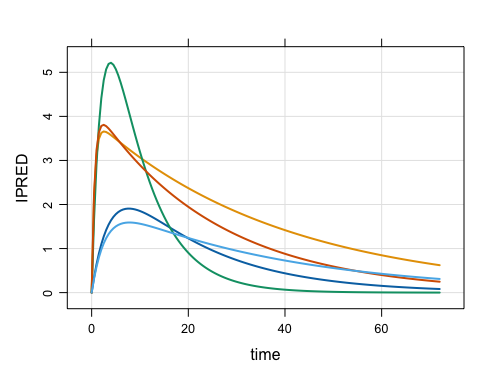
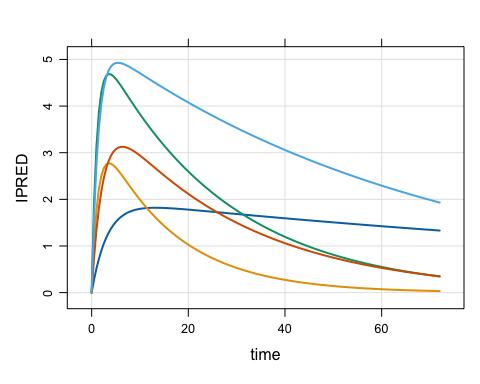
put current location in pkgdown file

diff --git a/README.md b/README.md
@@ -6,10 +6,10 @@
 <!-- badges: start -->
 
 [![R-universe
-version](https://kylebaron.r-universe.dev/mrgsim.ds/badges/version)](https://kylebaron.r-universe.dev/mrgsim.ds)
+version](https://p-emex.r-universe.dev/mrgsim.ds/badges/version)](https://p-emex.r-universe.dev/mrgsim.ds)
 [![r-universe
-status](https://kylebaron.r-universe.dev/mrgsim.ds/badges/checks)](https://kylebaron.r-universe.dev/mrgsim.ds)
-[![R-CMD-check](https://github.com/kylebaron/mrgsim.ds/actions/workflows/R-CMD-check.yaml/badge.svg)](https://github.com/kylebaron/mrgsim.ds/actions/workflows/R-CMD-check.yaml)
+status](https://p-emex.r-universe.dev/mrgsim.ds/badges/checks)](https://p-emex.r-universe.dev/mrgsim.ds)
+[![R-CMD-check](https://github.com/p-emex/mrgsim.ds/actions/workflows/R-CMD-check.yaml/badge.svg)](https://github.com/p-emex/mrgsim.ds/actions/workflows/R-CMD-check.yaml)
 <!-- badges: end -->
 
 `mrgsim.ds` provides an [Apache
@@ -60,15 +60,15 @@ out
 . Dim  : 1.4M x 4
 . Files: 1 [13.2 Mb]
 . Owner: yes (gc)
-.     ID time        CL    IPRED
-. 1:   1  0.0 0.5257195 0.000000
-. 2:   1  0.0 0.5257195 0.000000
-. 3:   1  0.5 0.5257195 2.029373
-. 4:   1  1.0 0.5257195 3.278854
-. 5:   1  1.5 0.5257195 4.037325
-. 6:   1  2.0 0.5257195 4.486813
-. 7:   1  2.5 0.5257195 4.742013
-. 8:   1  3.0 0.5257195 4.875192
+.     ID time       CL     IPRED
+. 1:   1  0.0 1.243114 0.0000000
+. 2:   1  0.0 1.243114 0.0000000
+. 3:   1  0.5 1.243114 0.1275166
+. 4:   1  1.0 1.243114 0.2449907
+. 5:   1  1.5 1.243114 0.3531121
+. 6:   1  2.0 1.243114 0.4525244
+. 7:   1  2.5 1.243114 0.5438276
+. 8:   1  3.0 1.243114 0.6275816
 ```
 
 ## Very lightweight simulation output object
@@ -79,7 +79,7 @@ disk.
 
 ``` r
 basename(out$files)
-. [1] "mrgsims-ds-84d728336864.parquet"
+. [1] "mrgsims-ds-1439e1fc2d10c.parquet"
 ```
 
 This means there is almost nothing inside the object itself
@@ -126,23 +126,23 @@ head(out)
 . # A tibble: 6 × 4
 .      ID  time    CL IPRED
 .   <dbl> <dbl> <dbl> <dbl>
-. 1     1   0   0.526  0   
-. 2     1   0   0.526  0   
-. 3     1   0.5 0.526  2.03
-. 4     1   1   0.526  3.28
-. 5     1   1.5 0.526  4.04
-. 6     1   2   0.526  4.49
+. 1     1   0    1.24 0    
+. 2     1   0    1.24 0    
+. 3     1   0.5  1.24 0.128
+. 4     1   1    1.24 0.245
+. 5     1   1.5  1.24 0.353
+. 6     1   2    1.24 0.453
 
 tail(out)
 . # A tibble: 6 × 4
 .      ID  time    CL IPRED
 .   <dbl> <dbl> <dbl> <dbl>
-. 1  3000  238. 0.596 0.236
-. 2  3000  238  0.596 0.232
-. 3  3000  238. 0.596 0.228
-. 4  3000  239  0.596 0.225
-. 5  3000  240. 0.596 0.221
-. 6  3000  240  0.596 0.217
+. 1  3000  238. 0.886 0.166
+. 2  3000  238  0.886 0.164
+. 3  3000  238. 0.886 0.161
+. 4  3000  239  0.886 0.158
+. 5  3000  240. 0.886 0.156
+. 6  3000  240  0.886 0.153
 
 dim(out)
 . [1] 1446000       4
@@ -156,16 +156,16 @@ as_tibble(out)
 . # A tibble: 1,446,000 × 4
 .       ID  time    CL IPRED
 .    <dbl> <dbl> <dbl> <dbl>
-.  1     1   0   0.526  0   
-.  2     1   0   0.526  0   
-.  3     1   0.5 0.526  2.03
-.  4     1   1   0.526  3.28
-.  5     1   1.5 0.526  4.04
-.  6     1   2   0.526  4.49
-.  7     1   2.5 0.526  4.74
-.  8     1   3   0.526  4.88
-.  9     1   3.5 0.526  4.93
-. 10     1   4   0.526  4.94
+.  1     1   0    1.24 0    
+.  2     1   0    1.24 0    
+.  3     1   0.5  1.24 0.128
+.  4     1   1    1.24 0.245
+.  5     1   1.5  1.24 0.353
+.  6     1   2    1.24 0.453
+.  7     1   2.5  1.24 0.544
+.  8     1   3    1.24 0.628
+.  9     1   3.5  1.24 0.704
+. 10     1   4    1.24 0.774
 . # ℹ 1,445,990 more rows
 ```
 
@@ -191,16 +191,16 @@ as_duckdb_ds(out)
 . # Database: DuckDB 1.5.1 [kyleb@Darwin 24.6.0:R 4.5.3/:memory:]
 .       ID  time    CL IPRED
 .    <dbl> <dbl> <dbl> <dbl>
-.  1     1   0   0.526  0   
-.  2     1   0   0.526  0   
-.  3     1   0.5 0.526  2.03
-.  4     1   1   0.526  3.28
-.  5     1   1.5 0.526  4.04
-.  6     1   2   0.526  4.49
-.  7     1   2.5 0.526  4.74
-.  8     1   3   0.526  4.88
-.  9     1   3.5 0.526  4.93
-. 10     1   4   0.526  4.94
+.  1     1   0    1.24 0    
+.  2     1   0    1.24 0    
+.  3     1   0.5  1.24 0.128
+.  4     1   1    1.24 0.245
+.  5     1   1.5  1.24 0.353
+.  6     1   2    1.24 0.453
+.  7     1   2.5  1.24 0.544
+.  8     1   3    1.24 0.628
+.  9     1   3.5  1.24 0.704
+. 10     1   4    1.24 0.774
 . # ℹ more rows
 ```
 
@@ -237,9 +237,9 @@ collect(dd)
 .  2   0.5  1.11  3000
 .  3   1    1.81  3000
 .  4   1.5  2.27  3000
-.  5   2    2.58  3000
+.  5   2    2.59  3000
 .  6   2.5  2.80  3000
-.  7   3    2.94  3000
+.  7   3    2.95  3000
 .  8   3.5  3.04  3000
 .  9   4    3.10  3000
 . 10   4.5  3.13  3000
@@ -273,14 +273,14 @@ out2
 . Files: 10 [131.8 Mb]
 . Owner: yes (gc)
 .     ID time       CL    IPRED
-. 1:   1  0.0 1.005422 0.000000
-. 2:   1  0.0 1.005422 0.000000
-. 3:   1  0.5 1.005422 0.848059
-. 4:   1  1.0 1.005422 1.508579
-. 5:   1  1.5 1.005422 2.019414
-. 6:   1  2.0 1.005422 2.410849
-. 7:   1  2.5 1.005422 2.707110
-. 8:   1  3.0 1.005422 2.927574
+. 1:   1  0.0 1.198555 0.000000
+. 2:   1  0.0 1.198555 0.000000
+. 3:   1  0.5 1.198555 1.886228
+. 4:   1  1.0 1.198555 2.876238
+. 5:   1  1.5 1.198555 3.374510
+. 6:   1  2.0 1.198555 3.603480
+. 7:   1  2.5 1.198555 3.685466
+. 8:   1  3.0 1.198555 3.687712
 ```
 
 ``` r
@@ -295,11 +295,11 @@ All `arrow` files are stored in the `tempdir()` in parquet format
 ``` r
 list_temp()
 . 11 files [145 Mb]
-. - mrgsims-ds-84d728336864.parquet
-. - mrgsims-ds-85241792c3f.parquet
+. - mrgsims-ds-1439e1fc2d10c.parquet
+. - mrgsims-ds-143de348a522a.parquet
 .    ...
-. - mrgsims-ds-85282815b8f.parquet
-. - mrgsims-ds-85287aa20a91.parquet
+. - mrgsims-ds-143e228164bf9.parquet
+. - mrgsims-ds-143e24fd5dcfe.parquet
 ```
 
 This directory is eventually removed when the R session ends. Tools are
@@ -311,11 +311,11 @@ purge_except_temp(out2)
 
 list_temp()
 . 10 files [131.8 Mb]
-. - mrgsims-ds-85241792c3f.parquet
-. - mrgsims-ds-85243a47dcda.parquet
+. - mrgsims-ds-143de348a522a.parquet
+. - mrgsims-ds-143de43d481a0.parquet
 .    ...
-. - mrgsims-ds-85282815b8f.parquet
-. - mrgsims-ds-85287aa20a91.parquet
+. - mrgsims-ds-143e228164bf9.parquet
+. - mrgsims-ds-143e24fd5dcfe.parquet
 ```
 
 We also put a finalizer on each object so that, when it goes out of
@@ -367,8 +367,8 @@ cleaned up.
 ``` r
 gc()
 .           used  (Mb) gc trigger  (Mb) limit (Mb) max used  (Mb)
-. Ncells 2143360 114.5    3810194 203.5         NA  3661134 195.6
-. Vcells 3930515  30.0   16571476 126.5      16384 22219385 169.6
+. Ncells 2143360 114.5    3811172 203.6         NA  3631209 194.0
+. Vcells 3930513  30.0   16571476 126.5      16384 22219114 169.6
 
 list_temp()
 . 2 files [26.4 Mb]
@@ -455,15 +455,15 @@ out[[1]]
 . Dim  : 876 x 4
 . Files: 1 [10.5 Kb]
 . Owner: no
-.     ID TIME       CL     IPRED
-. 1:   1  0.0 1.837113 0.0000000
-. 2:   1  0.0 1.837113 0.0000000
-. 3:   1  0.5 1.837113 0.3449573
-. 4:   1  1.0 1.837113 0.6387425
-. 5:   1  1.5 1.837113 0.8878532
-. 6:   1  2.0 1.837113 1.0979855
-. 7:   1  2.5 1.837113 1.2741319
-. 8:   1  3.0 1.837113 1.4206681
+.     ID TIME        CL     IPRED
+. 1:   1  0.0 0.2872539 0.0000000
+. 2:   1  0.0 0.2872539 0.0000000
+. 3:   1  0.5 0.2872539 0.2803440
+. 4:   1  1.0 0.2872539 0.5197427
+. 5:   1  1.5 0.2872539 0.7240634
+. 6:   1  2.0 0.2872539 0.8983331
+. 7:   1  2.5 0.2872539 1.0468586
+. 8:   1  3.0 0.2872539 1.1733296
 . [mrgsim.ds] pointer and source pid refreshed.
 ```
 
@@ -492,15 +492,15 @@ out
 . Dim  : 2,628 x 4
 . Files: 3 [31.4 Kb]
 . Owner: yes (gc)
-.     ID TIME       CL     IPRED
-. 1:   1  0.0 1.837113 0.0000000
-. 2:   1  0.0 1.837113 0.0000000
-. 3:   1  0.5 1.837113 0.3449573
-. 4:   1  1.0 1.837113 0.6387425
-. 5:   1  1.5 1.837113 0.8878532
-. 6:   1  2.0 1.837113 1.0979855
-. 7:   1  2.5 1.837113 1.2741319
-. 8:   1  3.0 1.837113 1.4206681
+.     ID TIME        CL     IPRED
+. 1:   1  0.0 0.2872539 0.0000000
+. 2:   1  0.0 0.2872539 0.0000000
+. 3:   1  0.5 0.2872539 0.2803440
+. 4:   1  1.0 0.2872539 0.5197427
+. 5:   1  1.5 0.2872539 0.7240634
+. 6:   1  2.0 0.2872539 0.8983331
+. 7:   1  2.5 0.2872539 1.0468586
+. 8:   1  3.0 0.2872539 1.1733296
 ```
 
 Now we have all three files collected in a single object that we can
@@ -536,15 +536,15 @@ out2
 . Dim  : 2,628 x 4
 . Files: 3 [31.4 Kb]
 . Owner: yes (no gc)
-.     ID TIME       CL     IPRED
-. 1:   1  0.0 1.837113 0.0000000
-. 2:   1  0.0 1.837113 0.0000000
-. 3:   1  0.5 1.837113 0.3449573
-. 4:   1  1.0 1.837113 0.6387425
-. 5:   1  1.5 1.837113 0.8878532
-. 6:   1  2.0 1.837113 1.0979855
-. 7:   1  2.5 1.837113 1.2741319
-. 8:   1  3.0 1.837113 1.4206681
+.     ID TIME        CL     IPRED
+. 1:   1  0.0 0.2872539 0.0000000
+. 2:   1  0.0 0.2872539 0.0000000
+. 3:   1  0.5 0.2872539 0.2803440
+. 4:   1  1.0 0.2872539 0.5197427
+. 5:   1  1.5 0.2872539 0.7240634
+. 6:   1  2.0 0.2872539 0.8983331
+. 7:   1  2.5 0.2872539 1.0468586
+. 8:   1  3.0 0.2872539 1.1733296
 ```
 
 ``` r